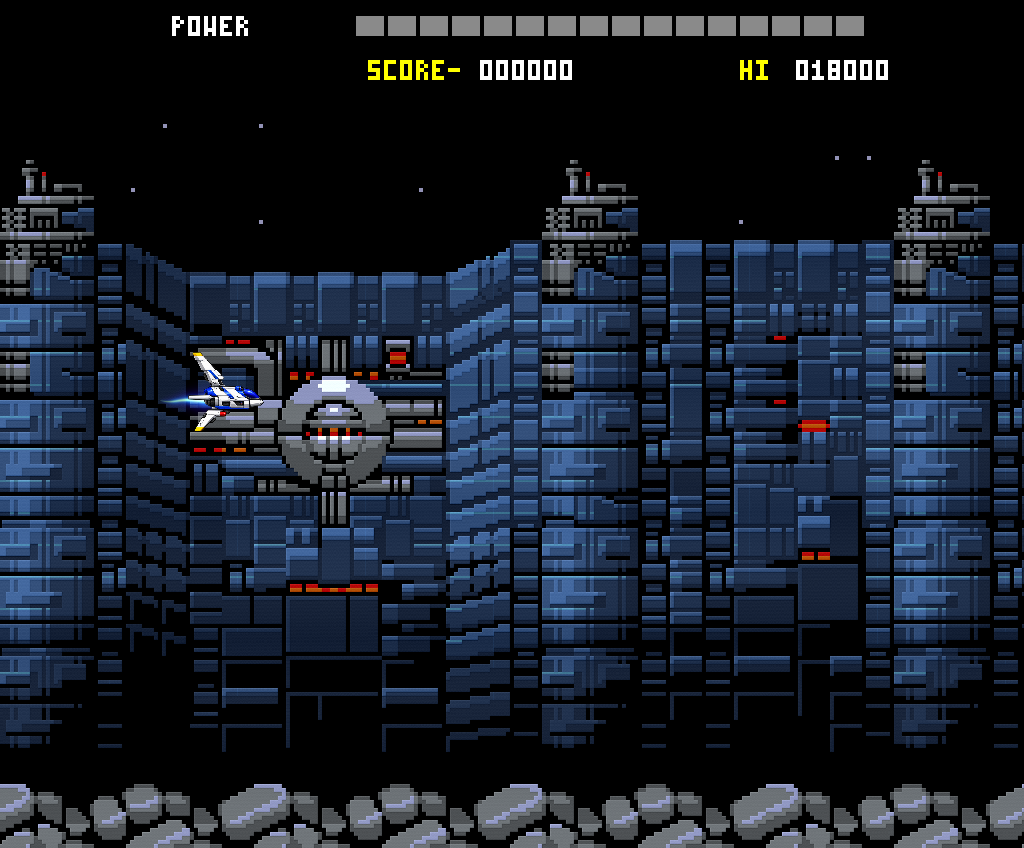
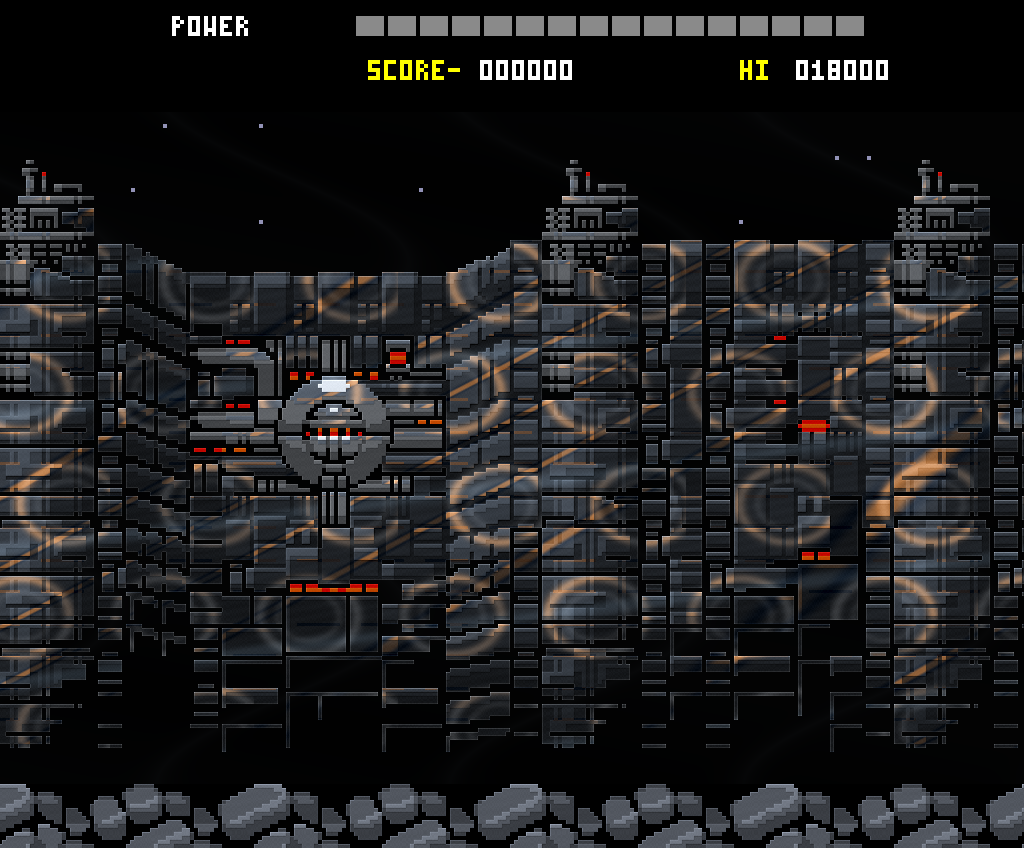
improve stage 1 enhanced background

diff --git a/src/enhanced_background.cpp b/src/enhanced_background.cpp
@@ -1,48 +1,131 @@
 #include "enhanced_background.hpp"
 #include <algorithm>
 #include <cmath>
+
 namespace sm {
+namespace {
+double luminance(std::uint32_t c) {
+    return double((c>>16)&255u)*0.23+double((c>>8)&255u)*0.49+double(c&255u)*0.28;
+}
+double clamp01(double v) { return std::clamp(v,0.0,1.0); }
+double smooth(double a,double b,double x) {
+    if(a==b) return x<a?0.0:1.0;
+    x=clamp01((x-a)/(b-a));
+    return x*x*(3.0-2.0*x);
+}
+bool dark(std::uint32_t c) {
+    return (((c>>16)&255u)+((c>>8)&255u)+(c&255u))<18u;
+}
+}
+
 void enhance_stage1_opening(std::vector<std::uint32_t>& pixels,
                             unsigned camera_samples,unsigned ground_samples,double strength) {
-    if(pixels.size()!=1024u*848u || strength<=0) return;
+    if(pixels.size()!=1024u*848u || strength<=0.0) return;
     const auto source=pixels;
-    auto luminance=[](std::uint32_t c) {
-        return (double((c>>16)&255)*0.23+double((c>>8)&255)*0.49+double(c&255)*0.28);
+    constexpr unsigned W=1024,H=848;
+
+    auto sample=[&](int x,int y)->std::uint32_t {
+        x=std::clamp(x,0,int(W)-1);y=std::clamp(y,112,int(H)-1);
+        return source[unsigned(y)*W+unsigned(x)];
     };
-    for(unsigned y=112;y<848;++y) for(unsigned x=0;x<1024;++x) {
-        const unsigned i=y*1024+x;const auto c=source[i];
-        const double r=(c>>16)&255,g=(c>>8)&255,b=c&255;
-        if(r+g+b==0) continue; // retain the ROM's silhouette and open space
-        const bool rock=y>=784;
+
+    for(unsigned y=112;y<H;++y) for(unsigned x=0;x<W;++x) {
+        const unsigned i=y*W+x;
+        const auto c=source[i];
+        const double r=(c>>16)&255u,g=(c>>8)&255u,b=c&255u;
+        const bool empty=dark(c);
+        const bool rock=y>=784u;
         const unsigned wx=x+(rock?ground_samples:camera_samples);
-        const bool blue=b>r*1.3 && b>g*1.3;
-        const double l=luminance(c);
-        // Fine brushed metal, sampled in world coordinates rather than screen
-        // coordinates. No random/time noise: quarter-pixel scrolling stays calm.
-        const unsigned hash=(wx*73856093u)^(y*19349663u);
-        const double grain=(int((hash^(hash>>13))&15u)-7)*0.36;
-        const double brush=std::sin(y*1.71+wx*0.018)*1.5;
-        const double reflection=std::sin((y%128u)*0.0245)*8.0;
-        const double above=luminance(source[(y-1)*1024+x]);
-        const double below=y+1<848?luminance(source[(y+1)*1024+x]):l;
-        const double left=x?luminance(source[i-1]):l;
-        const double right=x+1<1024?luminance(source[i+1]):l;
-        // One output-pixel bevels add highlights inside each ROM surface;
-        // they do not expand walls or change any collision geometry.
-        const double bevel=std::clamp((l-above)*0.32+(l-left)*0.16,-14.0,24.0)
-            -std::clamp((l-below)*0.20+(l-right)*0.10,0.0,18.0);
-        const double detail=grain+brush+reflection+bevel;
-        double nr,ng,nb;
-        if(blue && !rock) {
-            // Deep blue titanium, with cool steel faces and cyan seams.
-            nr=8+l*0.42+detail;ng=15+l*0.66+detail;nb=30+l*0.98+detail;
-            if(b>170 && g<100 && (y%32u)<2u) {nr+=12;ng+=38;nb+=24;}
-            if(l>36 && (wx%128u)==15u) {nr+=3;ng+=8;nb+=12;}
-        } else {
-            nr=r*0.95+detail;ng=g+detail;nb=b*1.04+detail;
+
+        // Very faint industrial relief in the empty opening. It is world-locked,
+        // so continuous scrolling remains smooth and later stars stay crisp.
+        if(empty) {
+            if(rock) continue;
+            const double f1=std::sin(double(wx)*0.0107+std::sin(double(y)*0.018)*1.35);
+            const double f2=std::sin(double(wx)*0.0043-double(y)*0.022+1.7);
+            const double filament=std::pow(std::max(0.0,1.0-std::abs(f1)),7.0);
+            const double mist=0.5+0.5*f2;
+            const double amount=strength*(2.0+8.0*filament+3.0*mist);
+            const unsigned nr=unsigned(std::clamp(std::lround(amount*0.54),0l,18l));
+            const unsigned ng=unsigned(std::clamp(std::lround(amount*0.60),0l,20l));
+            const unsigned nb=unsigned(std::clamp(std::lround(amount*0.68),0l,24l));
+            pixels[i]=0xff000000u|(nr<<16)|(ng<<8)|nb;
+            continue;
         }
+
+        const double l=luminance(c);
+        const bool blue=b>r*1.24 && b>g*1.18;
+
+        double open_neighbour=0.0;
+        for(const auto [dx,dy]:{std::pair{-1,0},std::pair{1,0},std::pair{0,-1},std::pair{0,1}})
+            if(dark(sample(int(x)+dx,int(y)+dy))) open_neighbour+=0.28;
+        open_neighbour=clamp01(open_neighbour);
+
+        const double la=luminance(sample(int(x),int(y)-1));
+        const double lb=luminance(sample(int(x),int(y)+1));
+        const double ll=luminance(sample(int(x)-1,int(y)));
+        const double lr=luminance(sample(int(x)+1,int(y)));
+        const double normal_y=std::clamp((la-lb)/46.0,-1.0,1.0);
+        const double bevel=std::clamp((l-la)*0.30+(l-ll)*0.18-(l-lb)*0.16-(l-lr)*0.08,-18.0,26.0);
+
+        const unsigned hash=(wx*73856093u)^(y*19349663u)^((wx>>5)*83492791u);
+        const double grain=(int((hash^(hash>>13))&31u)-15)*0.20;
+        const double brush=std::sin(double(wx)*0.115+double(y)*0.63)*1.8
+                          +std::sin(double(wx)*0.031-double(y)*0.19)*1.1;
+
+        // Broad non-parallel fields produce curved biomechanical seams instead
+        // of merely recolouring the original square pixels.
+        const double curve_phase=double(wx)*0.018+double(y)*0.031
+                                +std::sin(double(wx)*0.0048+double(y)*0.011)*2.2;
+        const double curve=std::abs(std::sin(curve_phase));
+        const double rib=1.0-smooth(0.055,0.20,curve);
+        const double groove=1.0-smooth(0.16,0.34,curve);
+
+        // Large staggered ring motifs break up long flat wall faces.
+        const int cellx=int(wx/144u),celly=int((y-112u)/112u);
+        const double cx=double(cellx*144+72+(celly&1?30:-18));
+        const double cy=112.0+double(celly*112+56);
+        const double dx=(double(wx)-cx)*0.78,dy=(double(y)-cy);
+        const double radius=std::sqrt(dx*dx+dy*dy);
+        const double ring=std::exp(-std::pow((radius-38.0)/4.6,2.0));
+        const double ring2=std::exp(-std::pow((radius-24.0)/3.6,2.0));
+
+        const double localx=double(wx&63u),localy=double(y&63u);
+        const double slot=(localx>10.0 && localx<54.0 &&
+                           (std::abs(localy-15.0)<1.4 || std::abs(localy-48.0)<1.2))?1.0:0.0;
+
+        double nr,ng,nb;
+        if(rock) {
+            const double shade=l*0.78+10.0+bevel+grain+brush*0.45;
+            nr=shade*0.86+open_neighbour*34.0;
+            ng=shade*0.91+open_neighbour*38.0;
+            nb=shade+open_neighbour*46.0;
+        } else if(blue) {
+            const double shade=13.0+l*0.58+bevel+grain+brush;
+            const double chrome=open_neighbour*(82.0+40.0*std::max(0.0,-normal_y))
+                               +ring*34.0+ring2*16.0;
+            const double recess=(groove-rib)*18.0+slot*16.0;
+            nr=shade*0.82+chrome-recess;
+            ng=shade*0.91+chrome-recess*0.78;
+            nb=shade*1.03+chrome-recess*0.46;
+
+            const double lit=clamp01((rib*0.82+ring*0.62+slot*0.55-open_neighbour*0.9)
+                                    *smooth(20.0,76.0,l));
+            nr+=lit*112.0;ng+=lit*47.0;nb-=lit*10.0;
+
+            const double spec=std::pow(std::max(0.0,std::sin(double(y)*0.047+double(wx)*0.006)),18.0);
+            nr+=spec*18.0;ng+=spec*23.0;nb+=spec*27.0;
+        } else {
+            const double metal=grain+brush*0.55+bevel+open_neighbour*32.0;
+            nr=r*0.88+metal;
+            ng=g*0.91+metal;
+            nb=b*0.95+metal;
+            if(r>g*1.45 && r>b*1.35) { nr+=32.0;ng+=5.0;nb-=4.0; }
+        }
+
         auto blend=[&](double original,double enhanced) {
-            return unsigned(std::clamp(std::lround(original+(std::clamp(enhanced,0.0,255.0)-original)*strength),0l,255l));
+            const double target=std::clamp(enhanced,0.0,255.0);
+            return unsigned(std::clamp(std::lround(original+(target-original)*strength),0l,255l));
         };
         pixels[i]=0xff000000u|(blend(r,nr)<<16)|(blend(g,ng)<<8)|blend(b,nb);
     }

diff --git a/src/enhanced_ship_test.cpp b/src/enhanced_ship_test.cpp
@@ -61,6 +61,7 @@ int main(int argc,char** argv) {
     // continuous scroll. Its world-space texture must move on every frame.
     auto& state=const_cast<sm::GameState&>(session.state());state.enemies={};
     auto previous=session.render_continuous(false,true);
+    save("stage1-background",previous);
     auto previous_original=session.render_continuous(false);
     for(unsigned frame=0;frame<16u;++frame) {
         const auto raw=state.player.raw;const auto original=session.render_continuous(false);
